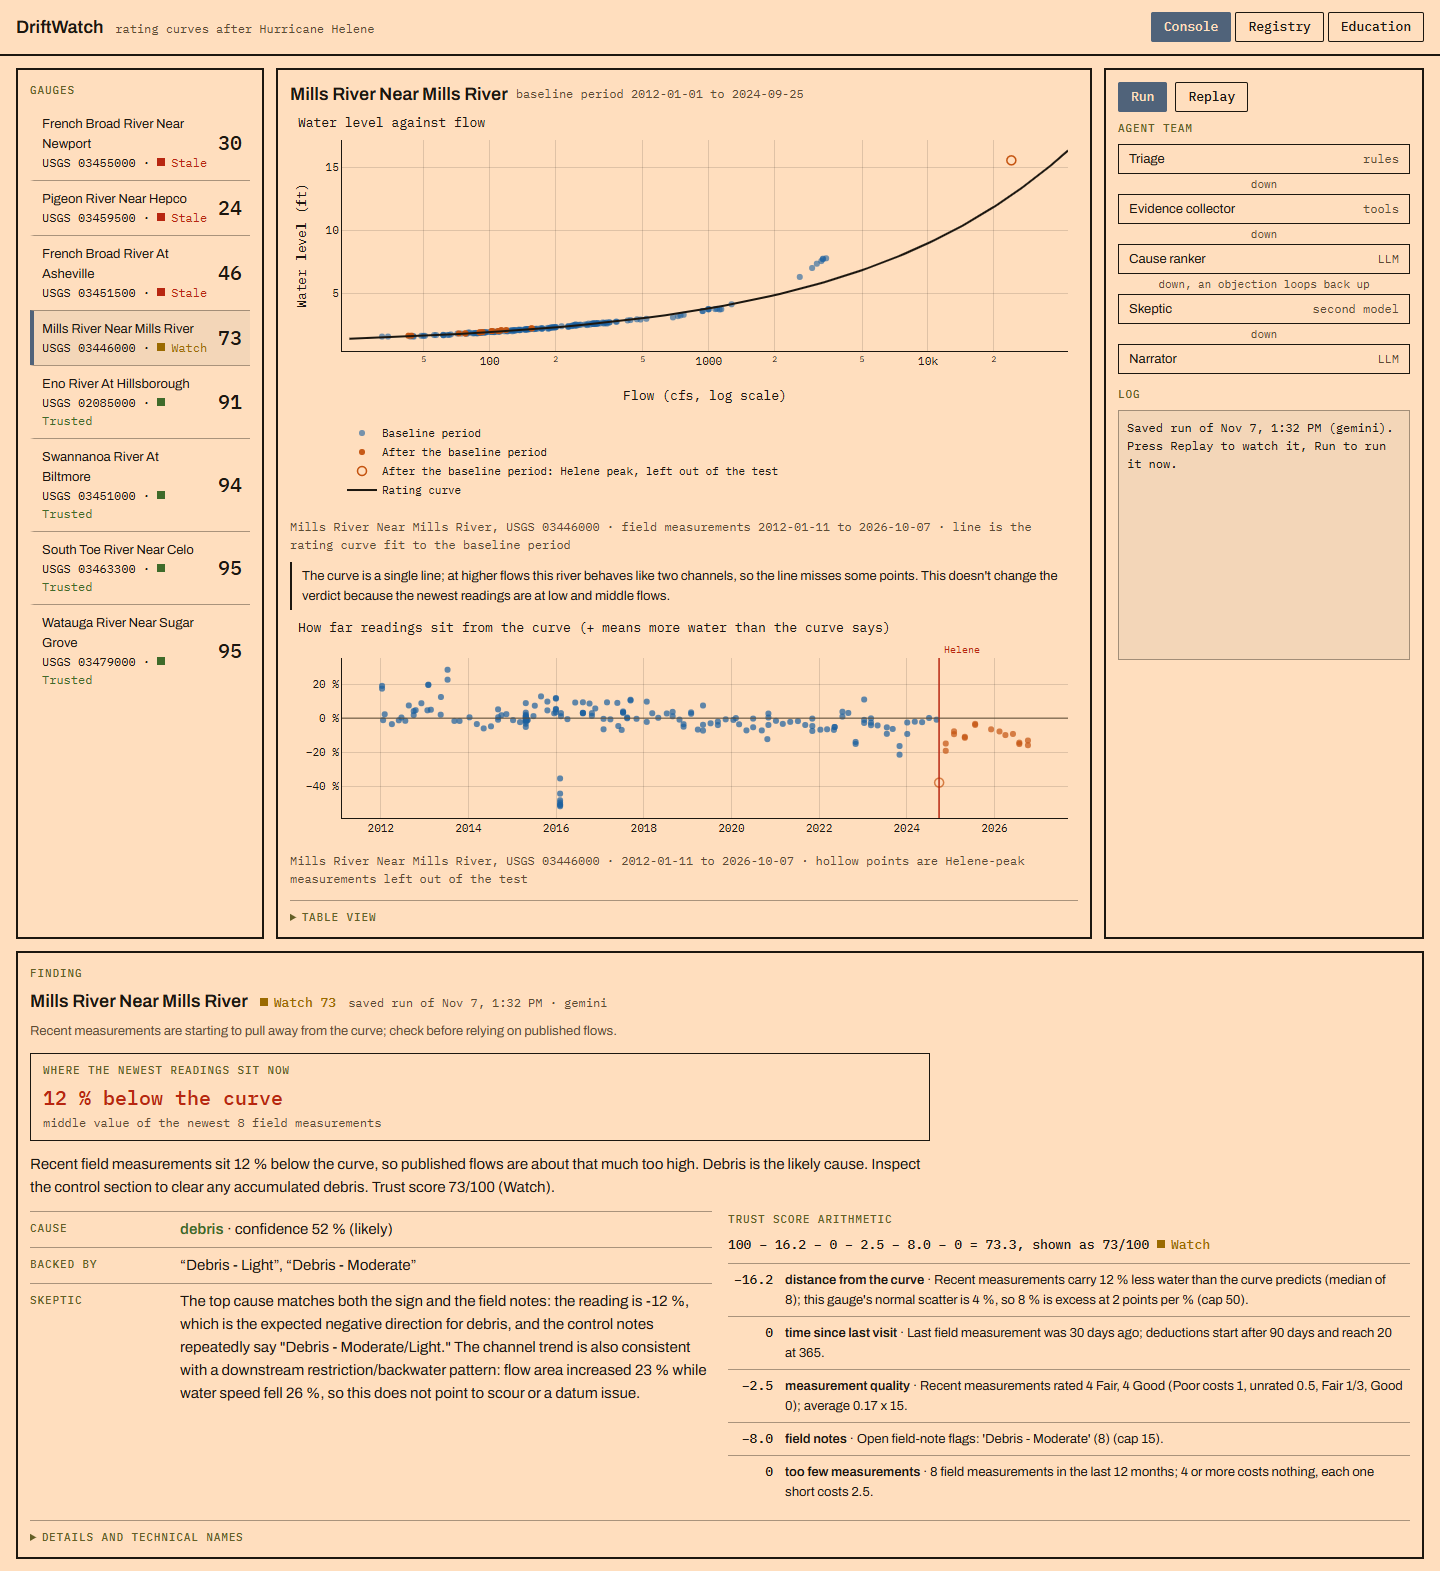
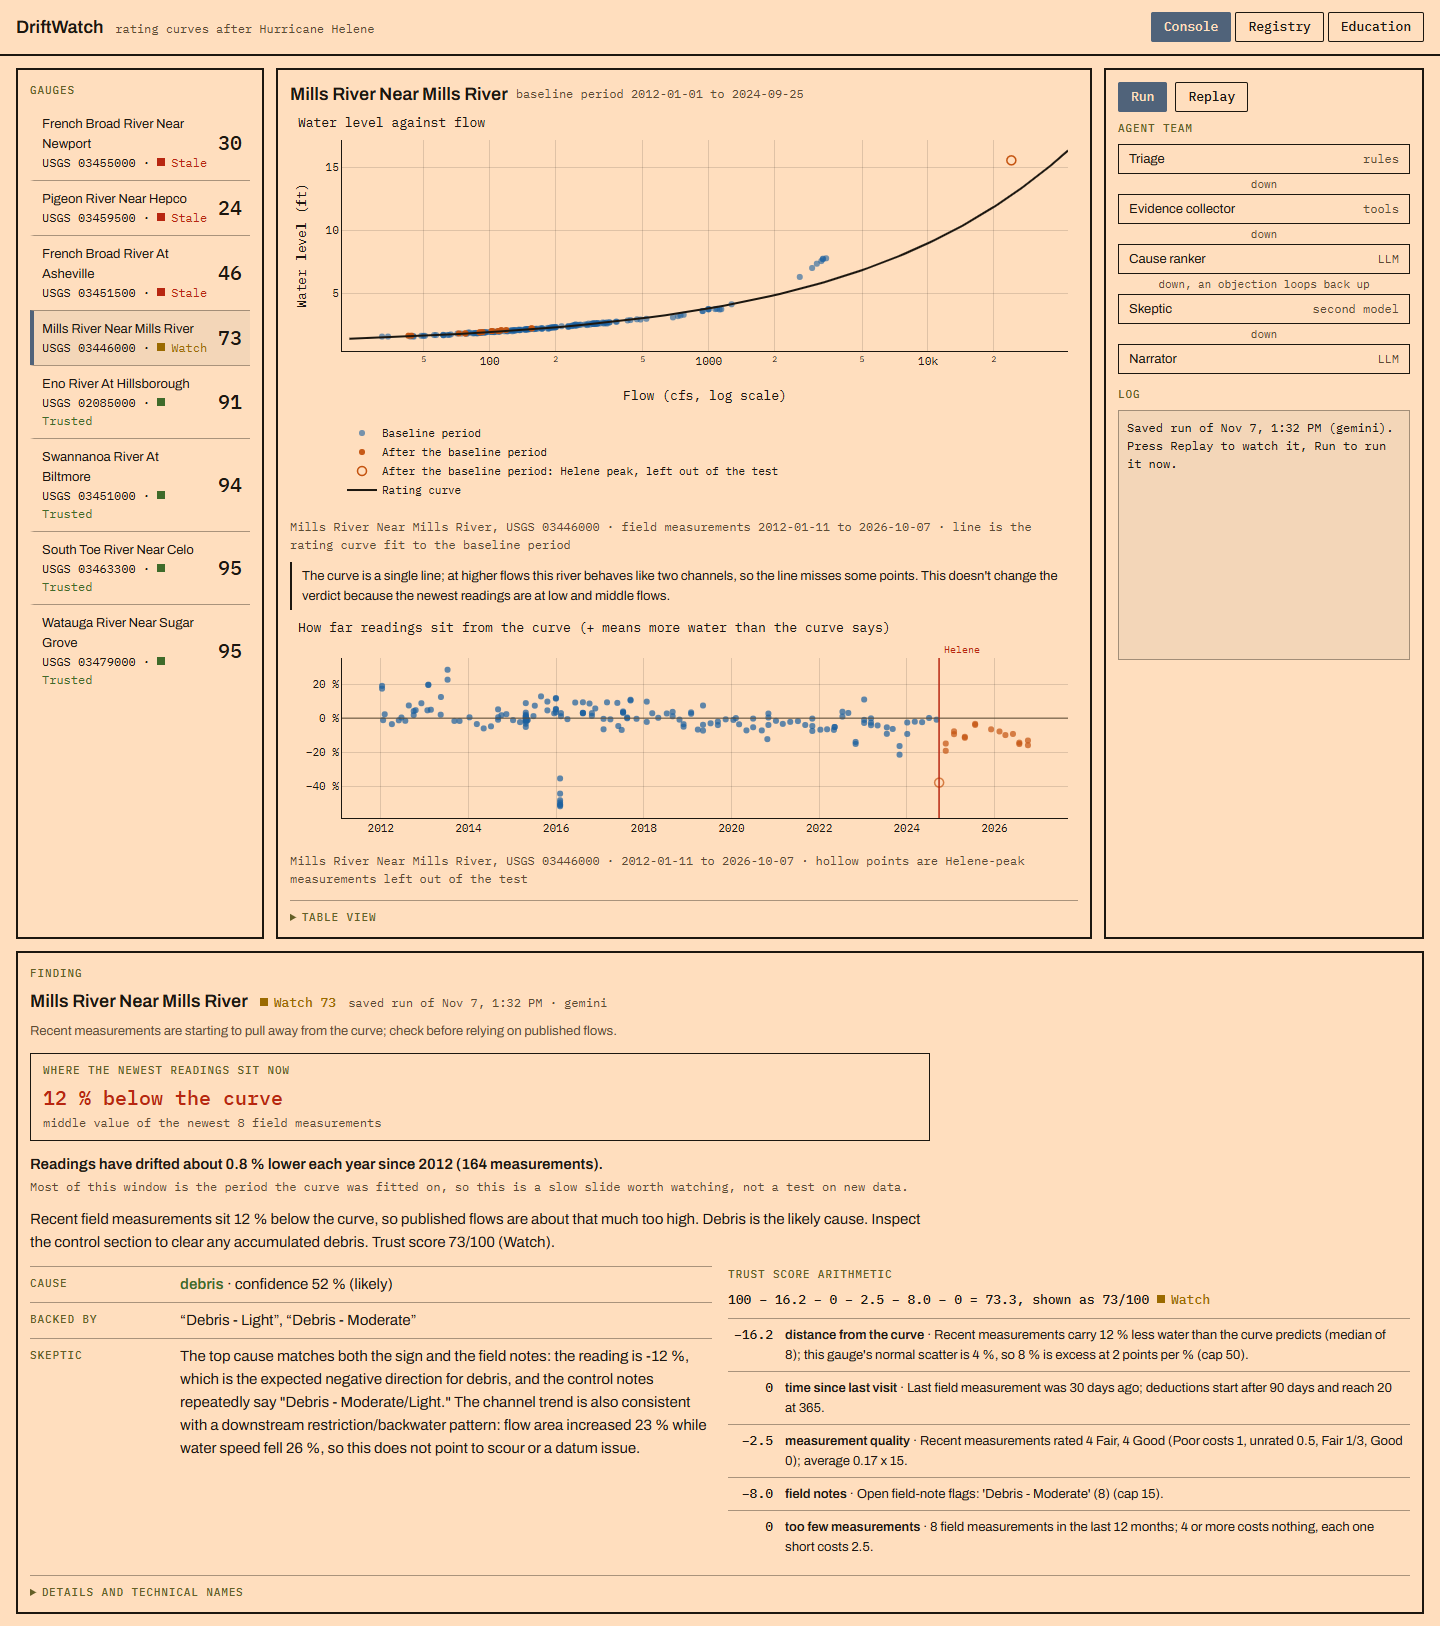
m3-trend-card: show stored significant trend on the finding card
/report adds trend and trend_note from committed reports/<site>.json (no
recompute). Card shows trend.text with trend_note caption only when
significant. Dockerfile copies reports/. Test: Mills significant, Hepco none.

diff --git a/driftwatch/api/console.html b/driftwatch/api/console.html
@@ -115,6 +115,9 @@ table.data td.r, table.data th.r { text-align: right; }
 .readout .v { font: 500 20px/24px var(--mono); margin: 2px 0; }
 .readout .v.sig { color: var(--signal); }
 .narr { max-width: 900px; margin: 0 0 12px; }
+.trend { max-width: 900px; margin: 0 0 12px; }
+.trend p { margin: 0; font-weight: 600; }
+.trend p.trend-note { font: 12px/18px var(--mono); color: var(--ink-muted); margin-top: 2px; }
 .grid2 { display: grid; grid-template-columns: minmax(0, 1fr) minmax(0, 1fr); gap: 16px; }
 .rows { display: grid; grid-template-columns: 150px 1fr; gap: 0; margin: 0; }
 .rows dt, .rows dd { border-top: 1px solid var(--rule); padding: 6px 0; margin: 0; }
@@ -597,6 +600,13 @@ function readoutsHTML(d) {
     <div class="caption">middle value of the newest ${r.n} field measurements</div></div>`);
   return parts.length ? `<div class="readouts">${parts.join("")}</div>` : "";
 }
+// slow-drift sentence from the stored report; only when the trend test calls it significant
+function trendHTML(d) {
+  const t = d?.trend;
+  if (!t || t.significant !== true) return "";
+  return `<div class="trend"><p>${esc(t.text)}</p>
+    ${d.trend_note ? `<p class="trend-note">${esc(d.trend_note)}</p>` : ""}</div>`;
+}
 function detailsHTML(d) {
   if (!d) return "";
   const rel = d.report.relationship, sh = d.report.drift.shifts;
@@ -649,6 +659,7 @@ function renderCard(f, label) {
       <span class="label ${/replay/.test(label) ? "replay" : ""}">${esc(label || "")}</span></div>
     ${trust ? `<p class="meaning">${esc(BAND_MEANING[trust.band] || "")}</p>` : ""}
     ${readoutsHTML(d)}
+    ${trendHTML(d)}
     ${f?.narration ? `<p class="narr">${esc(plain(f.narration))}</p>` : ""}
     <div class="grid2"><div>${causeHTML}</div><div><h2 class="lbl">Trust score arithmetic</h2>${scoreHTML}</div></div>
     ${detailsHTML(d)}`;

diff --git a/driftwatch/api/app.py b/driftwatch/api/app.py
@@ -42,6 +42,7 @@ load_dotenv()  # LLM / credentials from .env; never overrides the shell
 
 HERE = Path(__file__).resolve().parent
 CONSOLE = HERE / "console.html"
+REPORTS = HERE.parents[1] / "reports"  # committed reports/<site>.json (make report)
 STATIC = HERE / "static"  # vendored plotly.min.js: the console works with no internet
 HELENE = "2024-09-27"
 REPLAY_PACE_S = float(os.environ.get("REPLAY_PACE", "0.6"))
@@ -197,6 +198,16 @@ def high_flow_misfit(points: list[dict[str, Any]], newest_n: int = NEWEST_N) -> 
     return out
 
 
+def stored_trend(site: str) -> dict[str, Any]:
+    """trend and trend_note from the committed reports/<site>.json. Read, never recomputed:
+    site_trend takes ~25 s at Mills, too slow per page load. Missing file or field -> None."""
+    try:
+        doc = json.loads((REPORTS / f"{site}.json").read_text(encoding="utf-8"))
+    except (OSError, ValueError):
+        return {"trend": None, "trend_note": None}
+    return {"trend": doc.get("trend"), "trend_note": doc.get("trend_note")}
+
+
 @cache
 def _report_payload(site: str) -> dict[str, Any]:
     """Report + everything the two plots need. Built from the snapshot, cached (it is static)."""
@@ -234,6 +245,7 @@ def _report_payload(site: str) -> dict[str, Any]:
                 "median_pct": float(np.median(recent)) if recent else None,
                 "n": len(recent),
             },
+            **stored_trend(site),
             "high_flow_misfit": high_flow_misfit(points, len(recent) or NEWEST_N),
             "points": points,
             "curve": curve,

diff --git a/tests/test_api.py b/tests/test_api.py
@@ -176,3 +176,12 @@ def test_console_has_education_tab_and_local_fonts(client):
         assert client.get(f"/static/fonts/{f}.woff2").status_code == 200
     edu = client.get("/static/education.json").json()
     assert len(edu) == 8 and all("—" not in json.dumps(e, ensure_ascii=False) for e in edu)
+
+
+def test_report_carries_stored_trend(client):
+    mills = client.get("/report/03446000").json()
+    assert mills["trend"]["significant"] is True
+    assert mills["trend"]["text"].startswith("Readings have drifted about 0.8 % lower")
+    assert mills["trend_note"]
+    hepco = client.get("/report/03459500").json()
+    assert hepco["trend"] is None and hepco["trend_note"] is None

diff --git a/docs/decision_log.md b/docs/decision_log.md
@@ -56,3 +56,4 @@
 - 2026-11-07 15:10 (dh round 3, open item): **Mills River (03446000) disagrees between modes: Watch 73 fixed vs Trusted 90 auto.** In the full-history search Mills is one stable period from 1934-06-07 to now, so auto fits the base rating on 1934-06-07..2025-12-03 (91 years) and tests the newest 8 gaugings. Against that rating the newest 8 read −4.2 % (inside normal scatter, residual deduction 0). Against the fixed 2012–2024 rating they read −11.6 % (residual deduction 16.2). The other deductions are the same in both modes: "Debris - Moderate" on the latest visit (8), quality 4 Fair / 4 Good (2.5), staleness 0, data 0. Neither band is clearly wrong: the tighter recent rating sees a low recent reading that the long window absorbs as normal scatter. **Check Mills before auto becomes the default.** Related: auto windows reach far back (Mills 1934, South Toe 1959, Watauga 1984), so the auto base rating averages decades of channel, while the fixed windows are deliberately recent. Nothing changed; default stays `fixed`.
 - 2026-11-07 (trend): **slow-drift trend** (`rating_curve/trend.py`, not wired into the report or trust score). Window = search series (Poor out) in the latest stable period of the % series, i.e. after the last accepted (gated) shift. Judgment call: with no shift that period runs from the reference start to the latest gauging, not only to `reference_end`, so the post-window record is included (same window `suggested_shift` uses). Weighted Theil–Sen (pair weight w_i·w_j), 95 % bootstrap CI (2,000, seed 7), unweighted two-sided Mann–Kendall; significant = p < 0.01 and |slope| ≥ 0.75 %/yr and CI excludes 0; None below 12 measurements or 3 years. Snapshot: Mills −0.84 %/yr significant (lower); Swannanoa, South Toe, Watauga, Eno not; Hepco/Newport/Asheville too short. **Flagged:** Eno misses only on p (0.0118; slope −0.95, CI −1.66..−0.10); Mills's CI upper end (−0.60) sits under the 0.75 floor. See docs/trend_status.md.
 - 2026-11-07 (trend-wire): **trend wired into the Report, not the score.** `Report.trend` (TrendResult | None) and `Report.trend_note`. `TrendResult` moved from trend.py to `core/schemas.py` because importing it back into schemas would be circular (trend.py imports schemas); trend.py re-exports it. `build_report(..., with_trend=False)`: off by default so the API and agents skip the 2,000-resample bootstrap; the CLI `report` turns it on, so reports/*.json carry it. `trend_note` = "Most of this window is the period the curve was fitted on, so this is a slow slide worth watching, not a test on new data." when the trend window starts before `reference_end` (trend None → no note). Judgment call: the note is set on every gauge with a trend, significant or not; on the snapshot that is all 5 gauges with a trend, because with no post-reference shift the window starts at the reference start. Trust arithmetic untouched; bands, scores and shift dates unchanged on all 8. See docs/trend_wire_status.md.
+- 2026-11-07 (m3-trend-card): **finding card shows the stored trend.** `/report/<site>` adds `trend` and `trend_note` read from the committed `reports/<site>.json` (`app.stored_trend`; never calls `site_trend`, ~25 s at Mills). The card shows `trend.text` under the number boxes, with `trend_note` as an ink-muted caption, only when `trend.significant` is true: Mills only on the current snapshot. A missing file or field shows nothing. Dockerfile now copies `reports/` so Cloud Run sees the same data.
